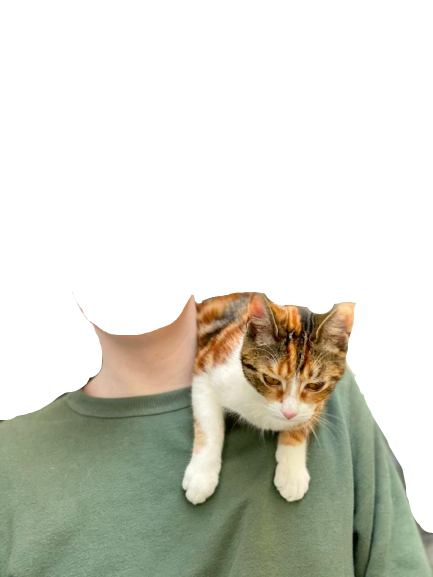
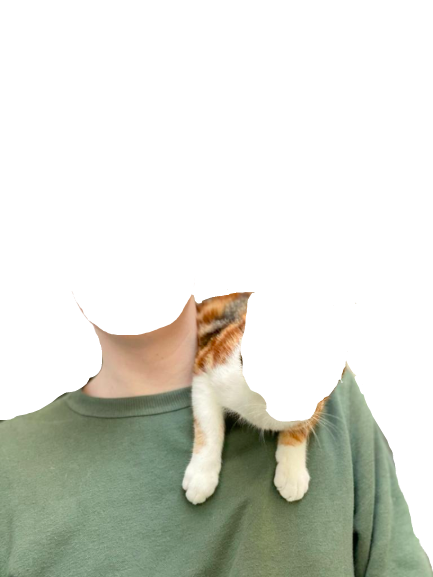
Functioning cat head

Changed region(s): [[0.5404, 0.4991, 0.8406, 0.7487], [0.9007, 0.7799, 1.0, 0.9983]]

diff --git a/components/base/Hero.vue b/components/base/Hero.vue
@@ -1,14 +1,15 @@
 <template>
   <div class="hero">
     <img class="jip" src="/jip-body.png" alt="Jip with a cat on his shoulder" />
+    <img ref="head" class="head" src="/jip-head.png" @click="activate" />
     <img
-      ref="head"
-      class="head"
-      src="/jip-head.png"
-      alt="Jip with a cat on his shoulder"
-      @click="activate"
+      ref="cat-head"
+      src="/cat-head.png"
+      class="cat"
+      alt
+      @click="activateCat"
     />
-    <canvas v-if="player" ref="canvas" />
+    <canvas v-if="player || catPlayer" ref="canvas" />
   </div>
 </template>
 
@@ -39,16 +40,24 @@ canvas {
     left: 28px;
     transform: scale(1);
     transition: bottom 200ms, transform 200ms;
+  }
 
-    &.hidden {
-      opacity: 0;
+  .cat {
+    width: 73px;
+    position: absolute;
+    bottom: 26%;
+    left: 148px;
+    transform: scale(1);
+    transition: transform 200ms;
+
+    &:hover {
+      // transform: scale(1.2);
+      // animation: spin 1s linear infinite;
     }
   }
 
-  .head:hover {
-    // bottom: 50%;
-    // transform: scale(2);
-    // animation: spin 1s linear infinite;
+  .hidden {
+    opacity: 0;
   }
 
   &::before {
@@ -82,12 +91,14 @@ canvas {
 
 <script>
 const headOffset = 0.1
+const catOffset = -0.1
 
 export default {
   data() {
     return {
       player: null,
       keys: {},
+      catPlayer: {},
     }
   },
   mounted() {
@@ -118,36 +129,86 @@ export default {
         head.classList.add('hidden')
       })
     },
+    activateCat() {
+      const head = this.$refs['cat-head']
+      const pos = head.getBoundingClientRect()
+      this.catPlayer = {
+        x: pos.x,
+        y: pos.y,
+        width: head.scrollWidth,
+        height: head.scrollHeight,
+        accel: 0.1,
+        maxSpeed: 15,
+        speed: 1,
+        rotation: -Math.PI / 2 - catOffset,
+      }
+
+      requestAnimationFrame(() => {
+        this.update()
+        head.classList.add('hidden')
+      })
+    },
     update() {
       // Update head position
       const player = this.player
+      if (player) {
+        // Check controls
+        if (this.keys.a) {
+          player.rotation -= 0.02
+        }
+        if (this.keys.d) {
+          player.rotation += 0.02
+        }
+        if (this.keys.w) {
+          player.speed += player.accel
+        }
+        if (this.keys.s) {
+          player.speed -= player.accel
+        }
 
-      // Check controls
-      if (this.keys.a || this.keys.arrowleft) {
-        player.rotation -= 0.02
-      }
-      if (this.keys.d || this.keys.arrowright) {
-        player.rotation += 0.02
-      }
-      if (this.keys.w || this.keys.arrowup) {
-        player.speed += player.accel
-      }
-      if (this.keys.s || this.keys.arrowdown) {
-        player.speed -= player.accel
+        if (player.speed > player.maxSpeed) {
+          player.speed = player.maxSpeed
+        } else if (player.speed < -player.maxSpeed) {
+          player.speed = -player.maxSpeed
+        }
+
+        // Add speed
+        const addX = this.player.speed * Math.cos(this.player.rotation)
+        const addY = this.player.speed * Math.sin(this.player.rotation)
+
+        player.x += addX
+        player.y += addY
       }
 
-      if (player.speed > player.maxSpeed) {
-        player.speed = player.maxSpeed
-      } else if (player.speed < -player.maxSpeed) {
-        player.speed = -player.maxSpeed
+      const catPlayer = this.catPlayer
+      if (catPlayer) {
+        // Check controls
+        if (this.keys.arrowleft) {
+          catPlayer.rotation -= 0.02
+        }
+        if (this.keys.arrowright) {
+          catPlayer.rotation += 0.02
+        }
+        if (this.keys.arrowup) {
+          catPlayer.speed += catPlayer.accel
+        }
+        if (this.keys.arrowdown) {
+          catPlayer.speed -= catPlayer.accel
+        }
+
+        if (catPlayer.speed > catPlayer.maxSpeed) {
+          catPlayer.speed = catPlayer.maxSpeed
+        } else if (catPlayer.speed < -catPlayer.maxSpeed) {
+          catPlayer.speed = -catPlayer.maxSpeed
+        }
+
+        // Add speed
+        const addX = this.catPlayer.speed * Math.cos(this.catPlayer.rotation)
+        const addY = this.catPlayer.speed * Math.sin(this.catPlayer.rotation)
+
+        catPlayer.x += addX
+        catPlayer.y += addY
       }
-
-      // Add speed
-      const addX = this.player.speed * Math.cos(this.player.rotation)
-      const addY = this.player.speed * Math.sin(this.player.rotation)
-
-      player.x += addX
-      player.y += addY
 
       this.draw()
 
@@ -155,33 +216,37 @@ export default {
     },
     draw() {
       const canvas = this.$refs.canvas
-      const ctx = canvas.getContext('2d')
       canvas.width = canvas.scrollWidth
       canvas.height = canvas.scrollHeight
 
       // Draw head
       const player = this.player
       const headImg = this.$refs.head
+      if (player) this.drawT(player, headImg, headOffset)
+
+      // Draw cat head
+      const catPlayer = this.catPlayer
+      const catHead = this.$refs['cat-head']
+      if (catPlayer) this.drawT(catPlayer, catHead, catOffset)
+    },
+    drawT(el, img, offset) {
+      const canvas = this.$refs.canvas
+      const ctx = canvas.getContext('2d')
+
       ctx.save()
-      ctx.translate(player.x + player.width / 2, player.y + player.height / 2)
-      ctx.rotate(player.rotation + Math.PI / 2 + headOffset)
-      ctx.drawImage(
-        headImg,
-        -player.width / 2,
-        -player.height / 2,
-        player.width,
-        player.height
-      )
+      ctx.translate(el.x + el.width / 2, el.y + el.height / 2)
+      ctx.rotate(el.rotation + Math.PI / 2 + offset)
+      ctx.drawImage(img, -el.width / 2, -el.height / 2, el.width, el.height)
       ctx.restore()
     },
     keydown(evt) {
-      if (this.player) {
+      if (this.player || this.catPlayer) {
         if (evt.key.includes('Arrow')) evt.preventDefault()
         this.keys[evt.key.toLowerCase()] = true
       }
     },
     keyup(evt) {
-      if (this.player) {
+      if (this.player || this.catPlayer) {
         if (evt.key.includes('Arrow')) evt.preventDefault()
         this.keys[evt.key.toLowerCase()] = false
       }
